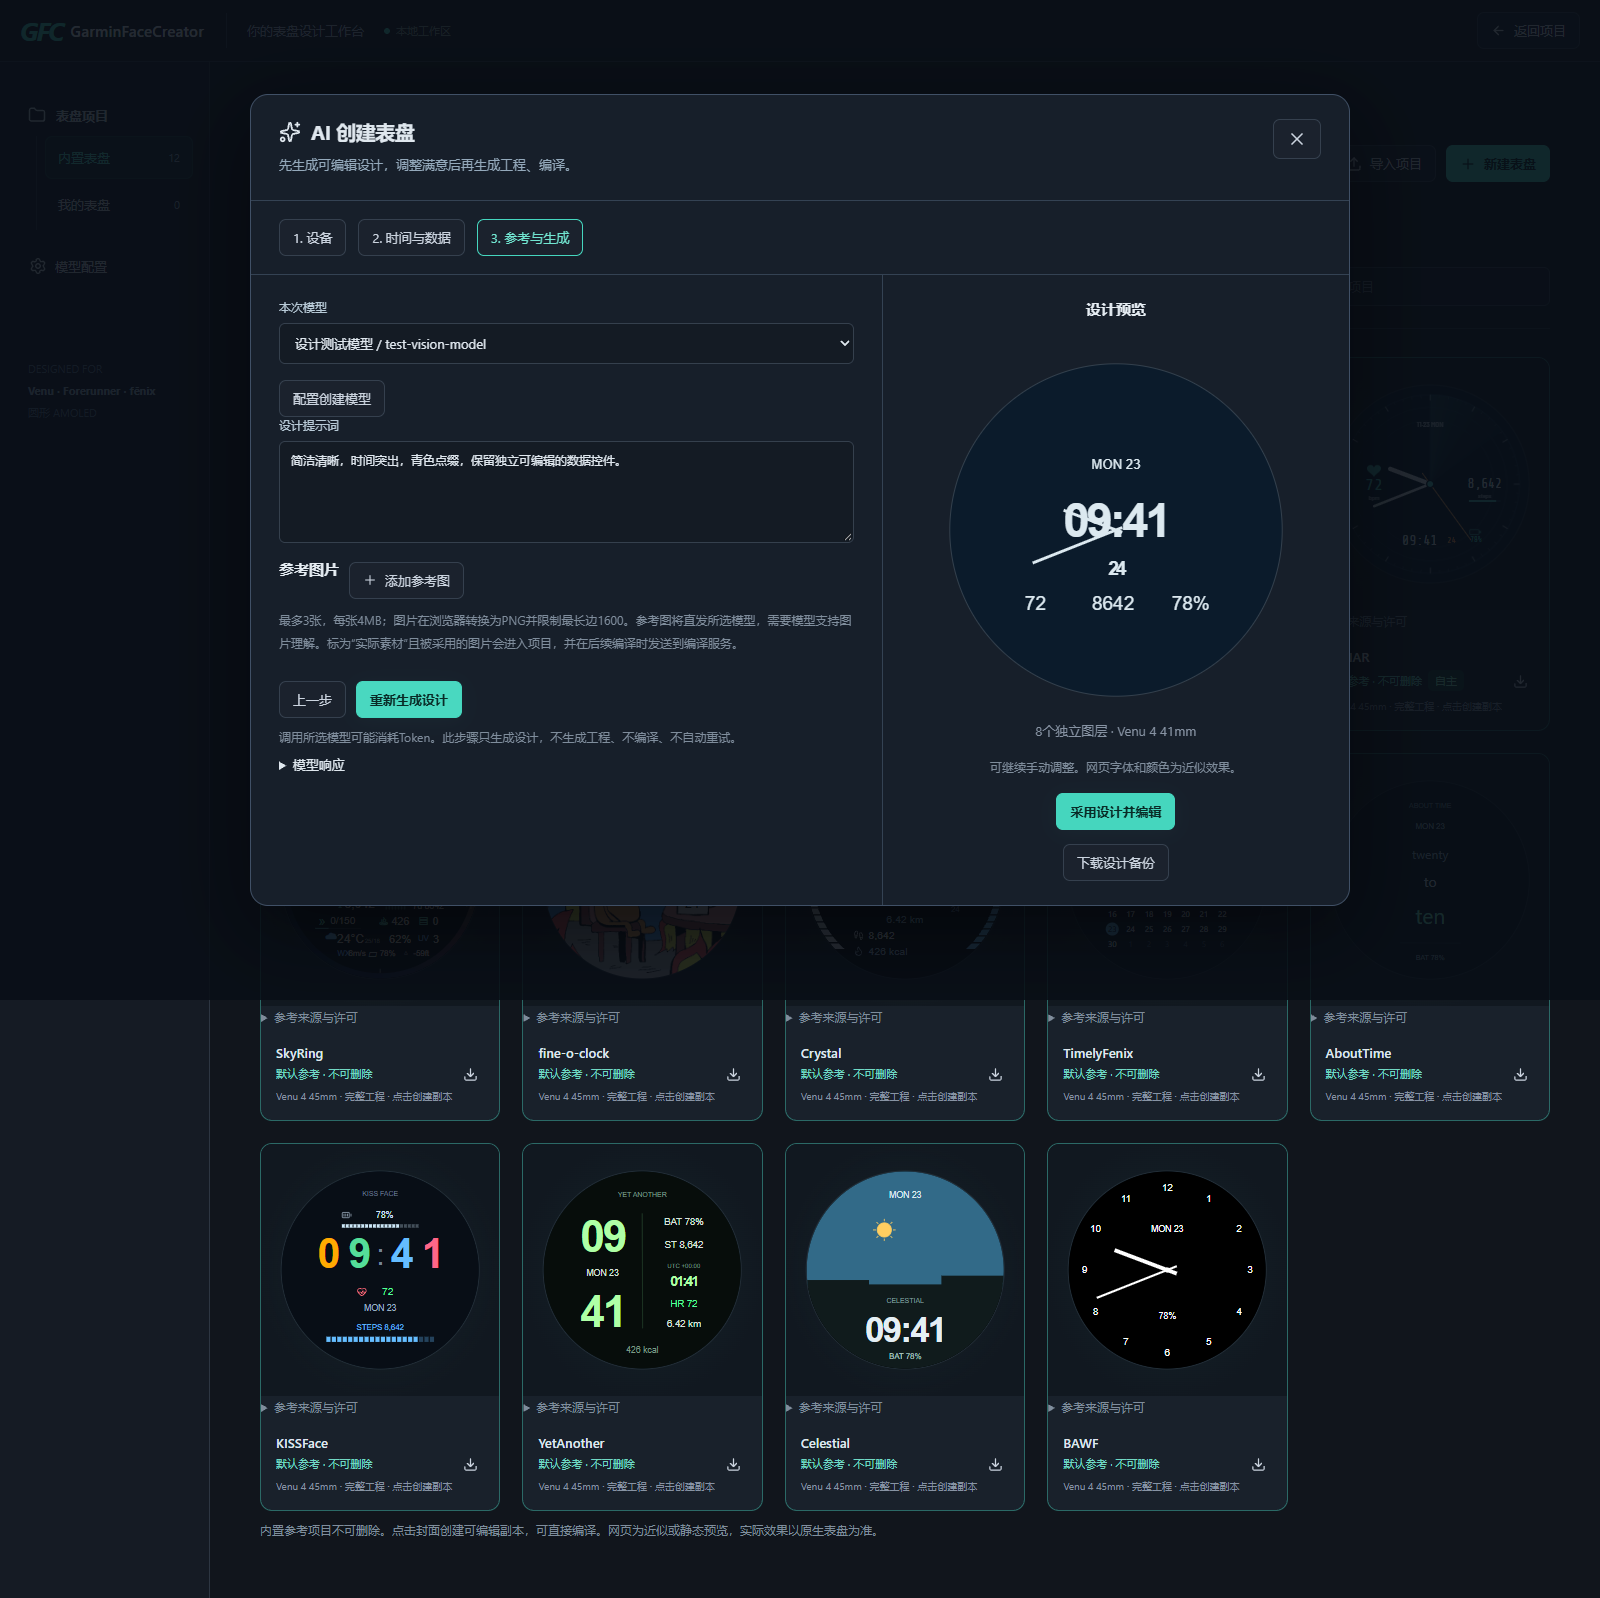
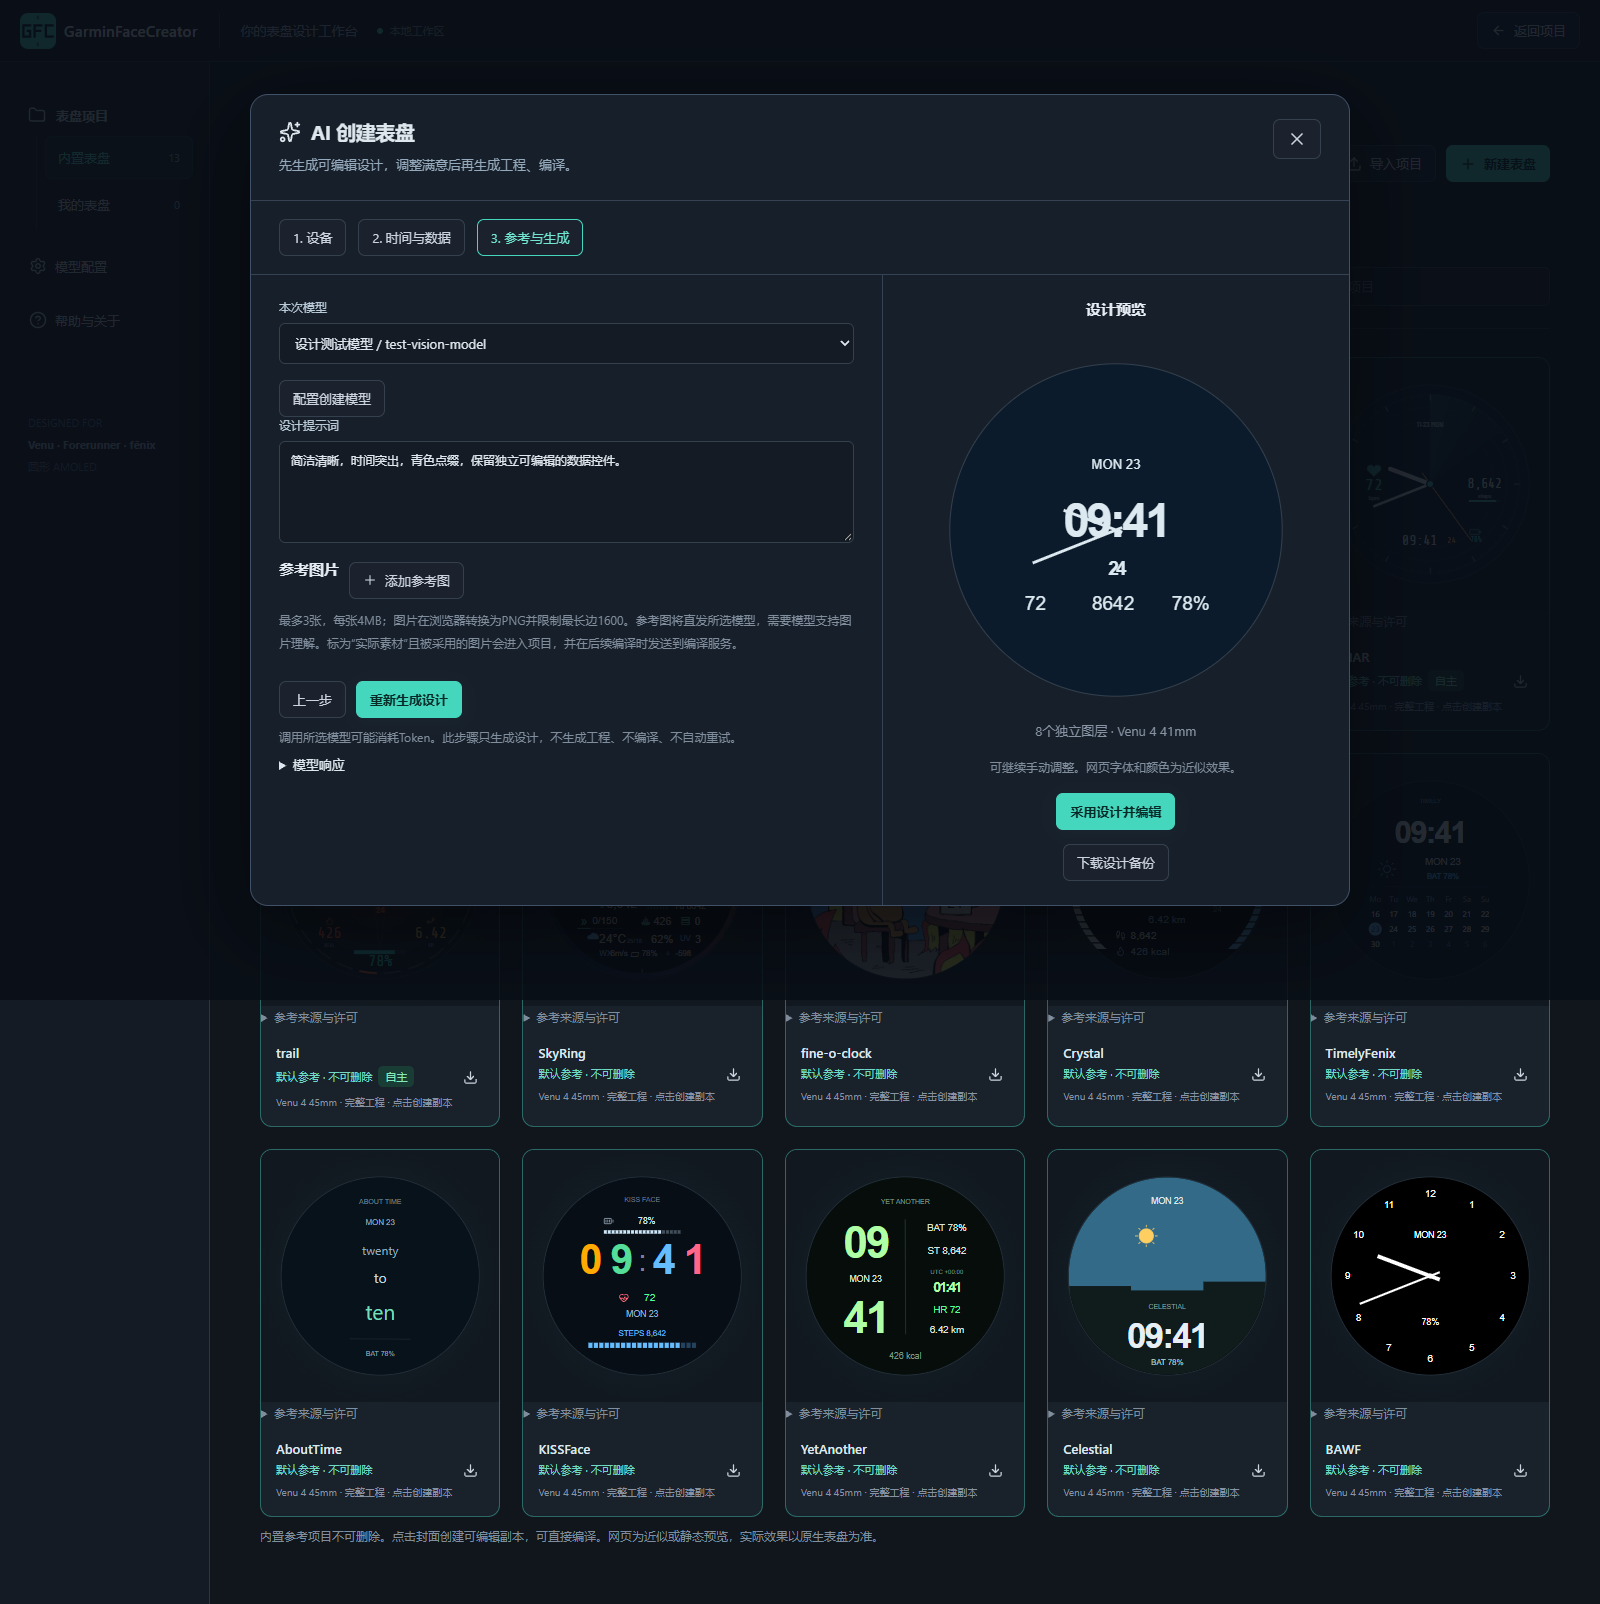
Record 113 schema-guided AI creation validation and refresh wizard documentation

diff --git a/readme.md b/readme.md
@@ -22,6 +22,8 @@
 
 “表盘项目”分为“内置表盘”和“我的表盘”：默认参考不可删除，使用时创建本地副本；自主参考优先排列。
 
+内置自主参考 [trail](docs/native454.md) 包含 Apex、Trail、Vital 三套主题，使用标准默认参考标签。整包 SDK 与模拟器已通过，完整 AOD/边界矩阵与真机验收仍待完成。
+
 ### AI 创建表盘
 
 选择时间风格、秒数、日期和所需子数据，配合设备、模型、参考图和提示词生成设计。
@@ -30,7 +32,7 @@
 
 ![AI创建：可编辑设计预览与采用](docs/screenshots/ai-create-45mm.png)
 
-以上AI向导截图使用固定测试响应，展示操作与数据链路，不代表真实模型的设计质量。另见[设备选择](docs/screenshots/ai-create-device.png)和[混合模式示例](docs/screenshots/ai-create-41mm.png)。
+以上AI向导截图使用固定测试响应，展示操作与数据链路，不代表真实模型的设计质量。付费模型的独立实测及失败差异见[工程生成对照记录](docs/paid-model-native454-comparison.md)。另见[设备选择](docs/screenshots/ai-create-device.png)和[混合模式示例](docs/screenshots/ai-create-41mm.png)。
 
 ### 可视化编辑器
 
@@ -57,7 +59,7 @@
 - 素材库内置胶囊数据行、分段电量轨、图标数据列和三色数据层叠；添加为单个复合对象，支持整体操作、右侧部件启用/亮屏/息屏开关、内部编辑及拆解，源码附带许可。
 
 - 内置表盘与我的表盘分类管理、分类搜索、自主参考标签与排序；原子本地保存、冲突恢复、版本迁移及设计 JSON 导入/导出。
-- AI 创建设计：选择系列/型号/尺寸、数字/指针/混合模式、秒/日期和子数据，加入参考图及提示词，生成独立可编辑图层，预览后采用。
+- AI 创建设计：选择设备、时间模式、视觉风格、复杂度、秒/日期和子数据，再加入参考图及提示词；共享Schema约束输出，逐层报错，支持可审阅的本地安全格式修正。见[响应契约](docs/standards/ai-design-response.md)。
 - 设计、工程和编译分开触发；手动调整不调用模型，支持取消、错误/截断提示、响应下载，以及保存失败后的设计备份和重试。
 - 控件可保存原生效果说明，随当前设计传递给后续AI工程生成；网页显示基础布局，本地生成明确提示不支持该说明。
 - 圆形画布、四角缩放、多选/框选、吸附、批量操作和对齐、撤销与重做。

diff --git a/README.en.md b/README.en.md
@@ -22,15 +22,17 @@ Each task requires a separate access token for status, logs, downloads and cance
 
 The Watchface Projects navigation separates built-in references from projects saved in your browser. Built-ins are protected and create editable copies; self-authored references appear first.
 
+The self-authored [trail reference](docs/native454.md) contains Apex, Trail and Vital presets in one project. Its complete SDK/simulator run has passed; the full AOD/boundary matrix and hardware acceptance remain pending.
+
 ### AI watch-face creation
 
-Choose a time style, seconds, date, and metrics, then add device settings, an AI model, reference images, and a prompt.
+Choose a device, time structure, visual style, complexity budget and metrics. Shared schema constraints and layer-specific diagnostics guide creation; review safe local formatting corrections without an extra model call. See the [response contract](docs/standards/ai-design-response.md).
 
 ![AI creation: time and metric selection](docs/screenshots/ai-create-options.png)
 
 ![AI creation: preview and adopt an editable design](docs/screenshots/ai-create-45mm.png)
 
-These wizard screenshots use fixed test responses to demonstrate the workflow, not a real model-quality benchmark. See also [device selection](docs/screenshots/ai-create-device.png) and the [hybrid example](docs/screenshots/ai-create-41mm.png).
+These wizard screenshots use fixed test responses to demonstrate the workflow, not a real model-quality benchmark. The separate [paid engineering comparison](docs/paid-model-native454-comparison.md) records actual failures and visual differences. See also [device selection](docs/screenshots/ai-create-device.png) and the [hybrid example](docs/screenshots/ai-create-41mm.png).
 
 ### Visual editor
 
